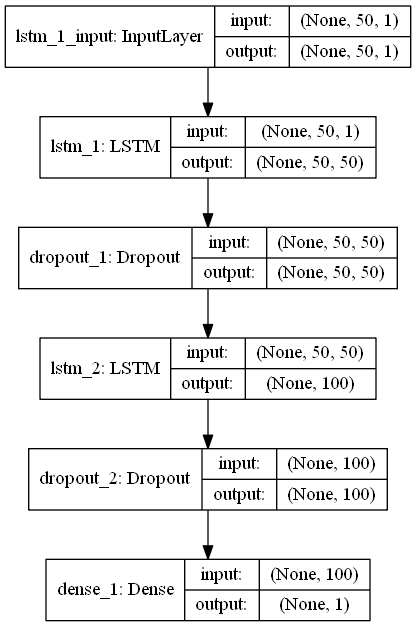
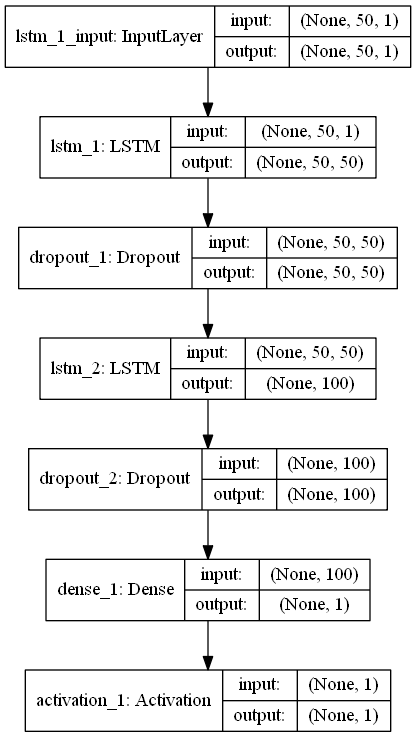
Model error fixes, Readme Update

Changed region(s): [[0.0, 0.0, 1.0, 1.0]]

diff --git a/tensorflowtest.py b/tensorflowtest.py
@@ -17,8 +17,8 @@ logging.basicConfig(level=logging.INFO)
 end = 100
 interval = 0.01
 # total length = end / interval
-test_fraction = 0.2
-sequence_length = 50
+test_fraction = 0.1
+sequence_length = 51
 epochs = 1
 sine = np.sin(np.arange(0, end, interval))
 
@@ -61,6 +61,7 @@ def build_model(layers):
     model.add(LSTM(layers[2], return_sequences=False))
     model.add(Dropout(0.1))
     model.add(Dense(output_dim=layers[3]))
+    model.add(Activation('linear'))
 
     start = time.clock()
     model.compile(loss='mse', optimizer='rmsprop')
@@ -72,18 +73,15 @@ def build_model(layers):
 
 def predict_next_point(model, inp):
     predicted = model.predict(inp)
-    # predicted = np.reshape(predicted, (predicted.size,))
+    predicted = np.reshape(predicted, (predicted.size,))
     return predicted
 
 
-def predict_sequence_full(model, inp, window_size):
-    frame = inp[0]
+def predict_sequence_full(model, inp):
     predicted = []
-    for i in range(len(inp)):
-        predicted.append(model.predict(frame[None, :, :])[0, 0])
-        frame = frame[1:]
-        frame = np.insert(frame, [window_size - 1], predicted[-1], axis=0)
-    return predicted
+    for i in inp:
+        predicted.append(model.predict(i[None, :, :]))
+    return np.array(predicted)
 
 
 def predict_sequences_multiple(model, inp, window_size, prediction_length):
@@ -95,8 +93,8 @@ def predict_sequences_multiple(model, inp, window_size, prediction_length):
         for j in range(prediction_length):
             predicted.append(model.predict(frame[None, :, :])[0, 0])
             frame = frame[1:]
-            frame = np.insert(frame, [window_size - 1], predicted[-1], axis=1)
-        prediction_sequences.append(predicted)
+            frame = np.insert(frame, [window_size - 1], predicted[-1], axis=0)
+            prediction_sequences.append(predicted)
     return prediction_sequences
 
 
@@ -132,11 +130,17 @@ y_test = test[:, -1]
 
 
 if __name__ == '__main__':
-    model = build_model([1, sequence_length, 100, 1])
+    model = build_model([1, sequence_length-1, 100, 1])
     print(x_train.shape)
     print(y_train.shape)
     print(x_test.shape)
     print(y_test.shape)
-    model.fit(x_train, y_train, batch_size=1024, nb_epoch=epochs, validation_data=0.1)
-    predictions = predict_sequences_multiple(model, x_test, sequence_length, 50)
-    plot_results_multiple(predictions, y_test, 50)
+    start = time.time()
+    model.fit(x_train, y_train, batch_size=256, nb_epoch=epochs, validation_split=0.1)
+    print('training took {} seconds'.format(time.time() - start))
+    start = time.time()
+    predictions = predict_sequence_full(model, x_test)
+    print('prediction took {} seconds'.format(time.time() - start))
+    predictions.shape = predictions.shape[0]
+    print(predictions.shape)
+    plot_results(predictions, y_test)

diff --git a/README.md b/README.md
@@ -1,9 +1,8 @@
-<h1>
-Recurrent Neural Network
-</h1>
-<h2>
-Generating text from novels
-</h2>
-<p>
-placeholder
-</p>
+### Dependencies
+
+* [Keras](https://keras.io/#installation "Install Keras")
+* [Tensorflow](https://www.tensorflow.org/versions/r0.12/get_started/os_setup "Download and Install Tensorflow")
+* [Graphviz executables](http://www.graphviz.org/Download.php "Download Graphviz") - add these to `PATH`
+* [PyDot](https://pypi.python.org/pypi/pydot "or use 'pip install pydot'")
+* Matplotlib
+* Numpy
